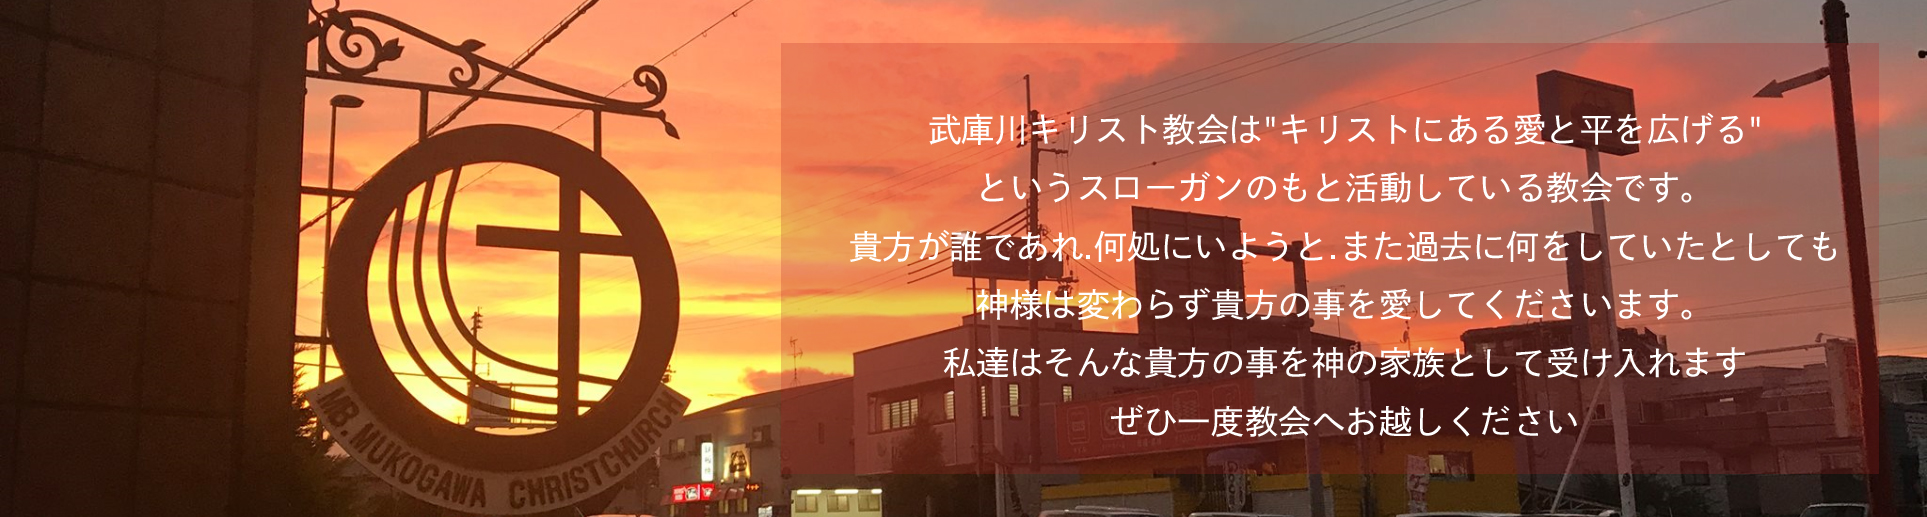
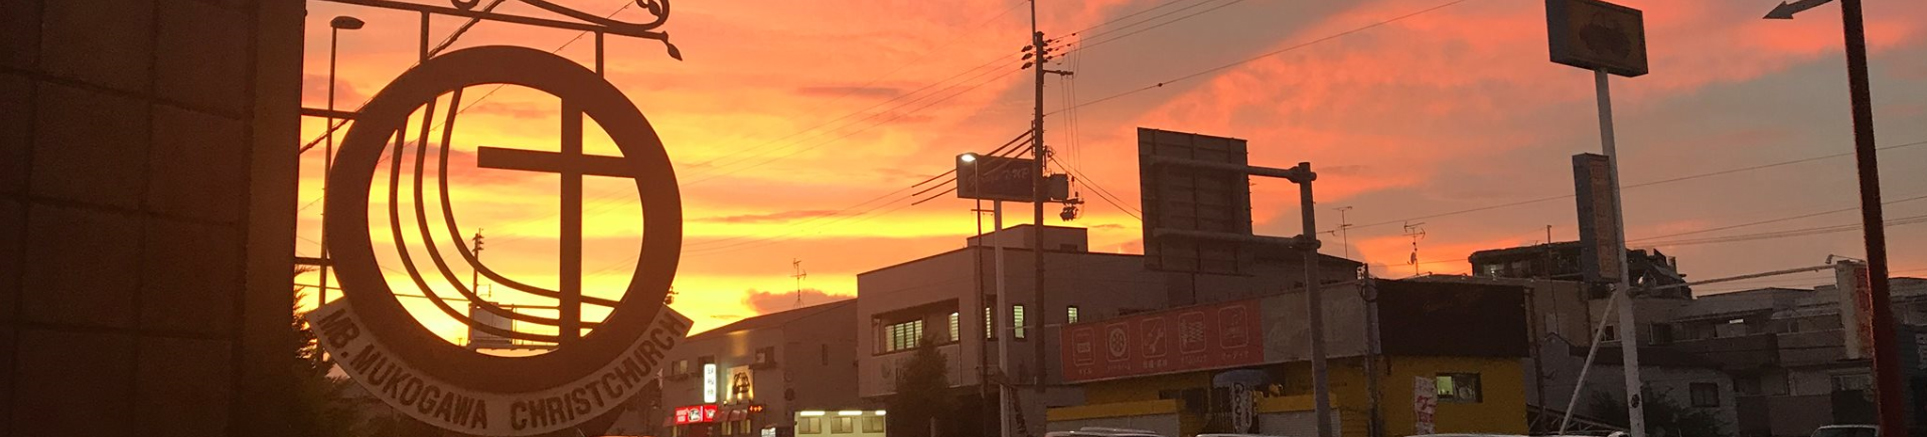
Add files via upload

diff --git a/index.html b/index.html
@@ -178,12 +178,14 @@
                 <div class="welcome__content">
                     <h2 class="welcome__title heading-line hidden">Our belief</h2>
 
-                    <!-- 
-                    <p class="welcome__text">武庫川キリスト教会は"キリストにある愛と平和を広げる"事を信念としている教会です。
-                        あなたが誰であれ,どこにいようと、また何をしていたとしても、神様は貴方の事を愛してくださいます。
-                        私達はそんな貴方を神の家族の一員として受け入れます。ぜひ一度教会へお越しください
+
+                    <p class="welcome__text">武庫川キリスト教会は"キリストにある愛と平和を広げる"<br>
+                        というスローガンのもと活動している教会です。<br>
+                        貴方が誰であれ、何処にいようと、また過去に何をしていたとしても<br>神様は変わらず貴方の事を愛してくださいます。<br>
+
+                        私達は神が愛する貴方の事を神の家族として受け入れます。<br>ぜひ一度教会へお越しください。
                     </p>
- -->
+
 
                 </div>
 

diff --git a/assets/css/style.css b/assets/css/style.css
@@ -482,7 +482,7 @@ li {
 
 .welcome__contents {
   width: 100%;
-  background-image: url("../img/welcome.jpg");
+  background-image: url("/assets/img/welcome.jpg");
   background-position: center;
   background-size: cover;
   background-repeat: no-repeat;
@@ -490,7 +490,7 @@ li {
 }
 
 .welcome__content {
-  width: 50%;
+  width: 100%;
   height: 400px;
   overflow: hidden;
   color: #676770;
@@ -511,11 +511,16 @@ li {
 
 .welcome__text {
   font-family: dnp-shuei-gothic-kin-std, sans-serif;
-  font-size: 2rem;
-  line-height: 1.5;
+  font-size: 2.5rem;
+  line-height: 2;
   color: white;
-  margin-top: 40px;
   z-index: 2px;
+  display: inline-block;
+  padding: 1% 4%;
+  background-color: rgba(255, 102, 52, 0.6);
+  max-width: 1000px;
+  text-align: center;
+  margin: 30px 70px;
 }
 
 .access {

diff --git a/assets/scss/_welcome.scss b/assets/scss/_welcome.scss
@@ -17,7 +17,7 @@
     }
 
     &__content {
-        width: 50%;
+        width: 100%;
         height: 400px;
         overflow: hidden;
         color: #676770;
@@ -40,12 +40,18 @@
 
     &__text {
         font-family: dnp-shuei-gothic-kin-std, sans-serif;
-        font-size: 2rem;
-        line-height: 1.5;
+        font-size: 2.5rem;
+        line-height: 2;
         color: white;
-        margin-top: 40px;
         z-index: 2px;
+        display: inline-block;
+        padding: 1% 4%;
+        background-color: rgba(255, 102, 52, .6);
+        max-width: 1000px;
+        text-align: center;
+        margin: 30px 70px;
     }
+
 
 
 
